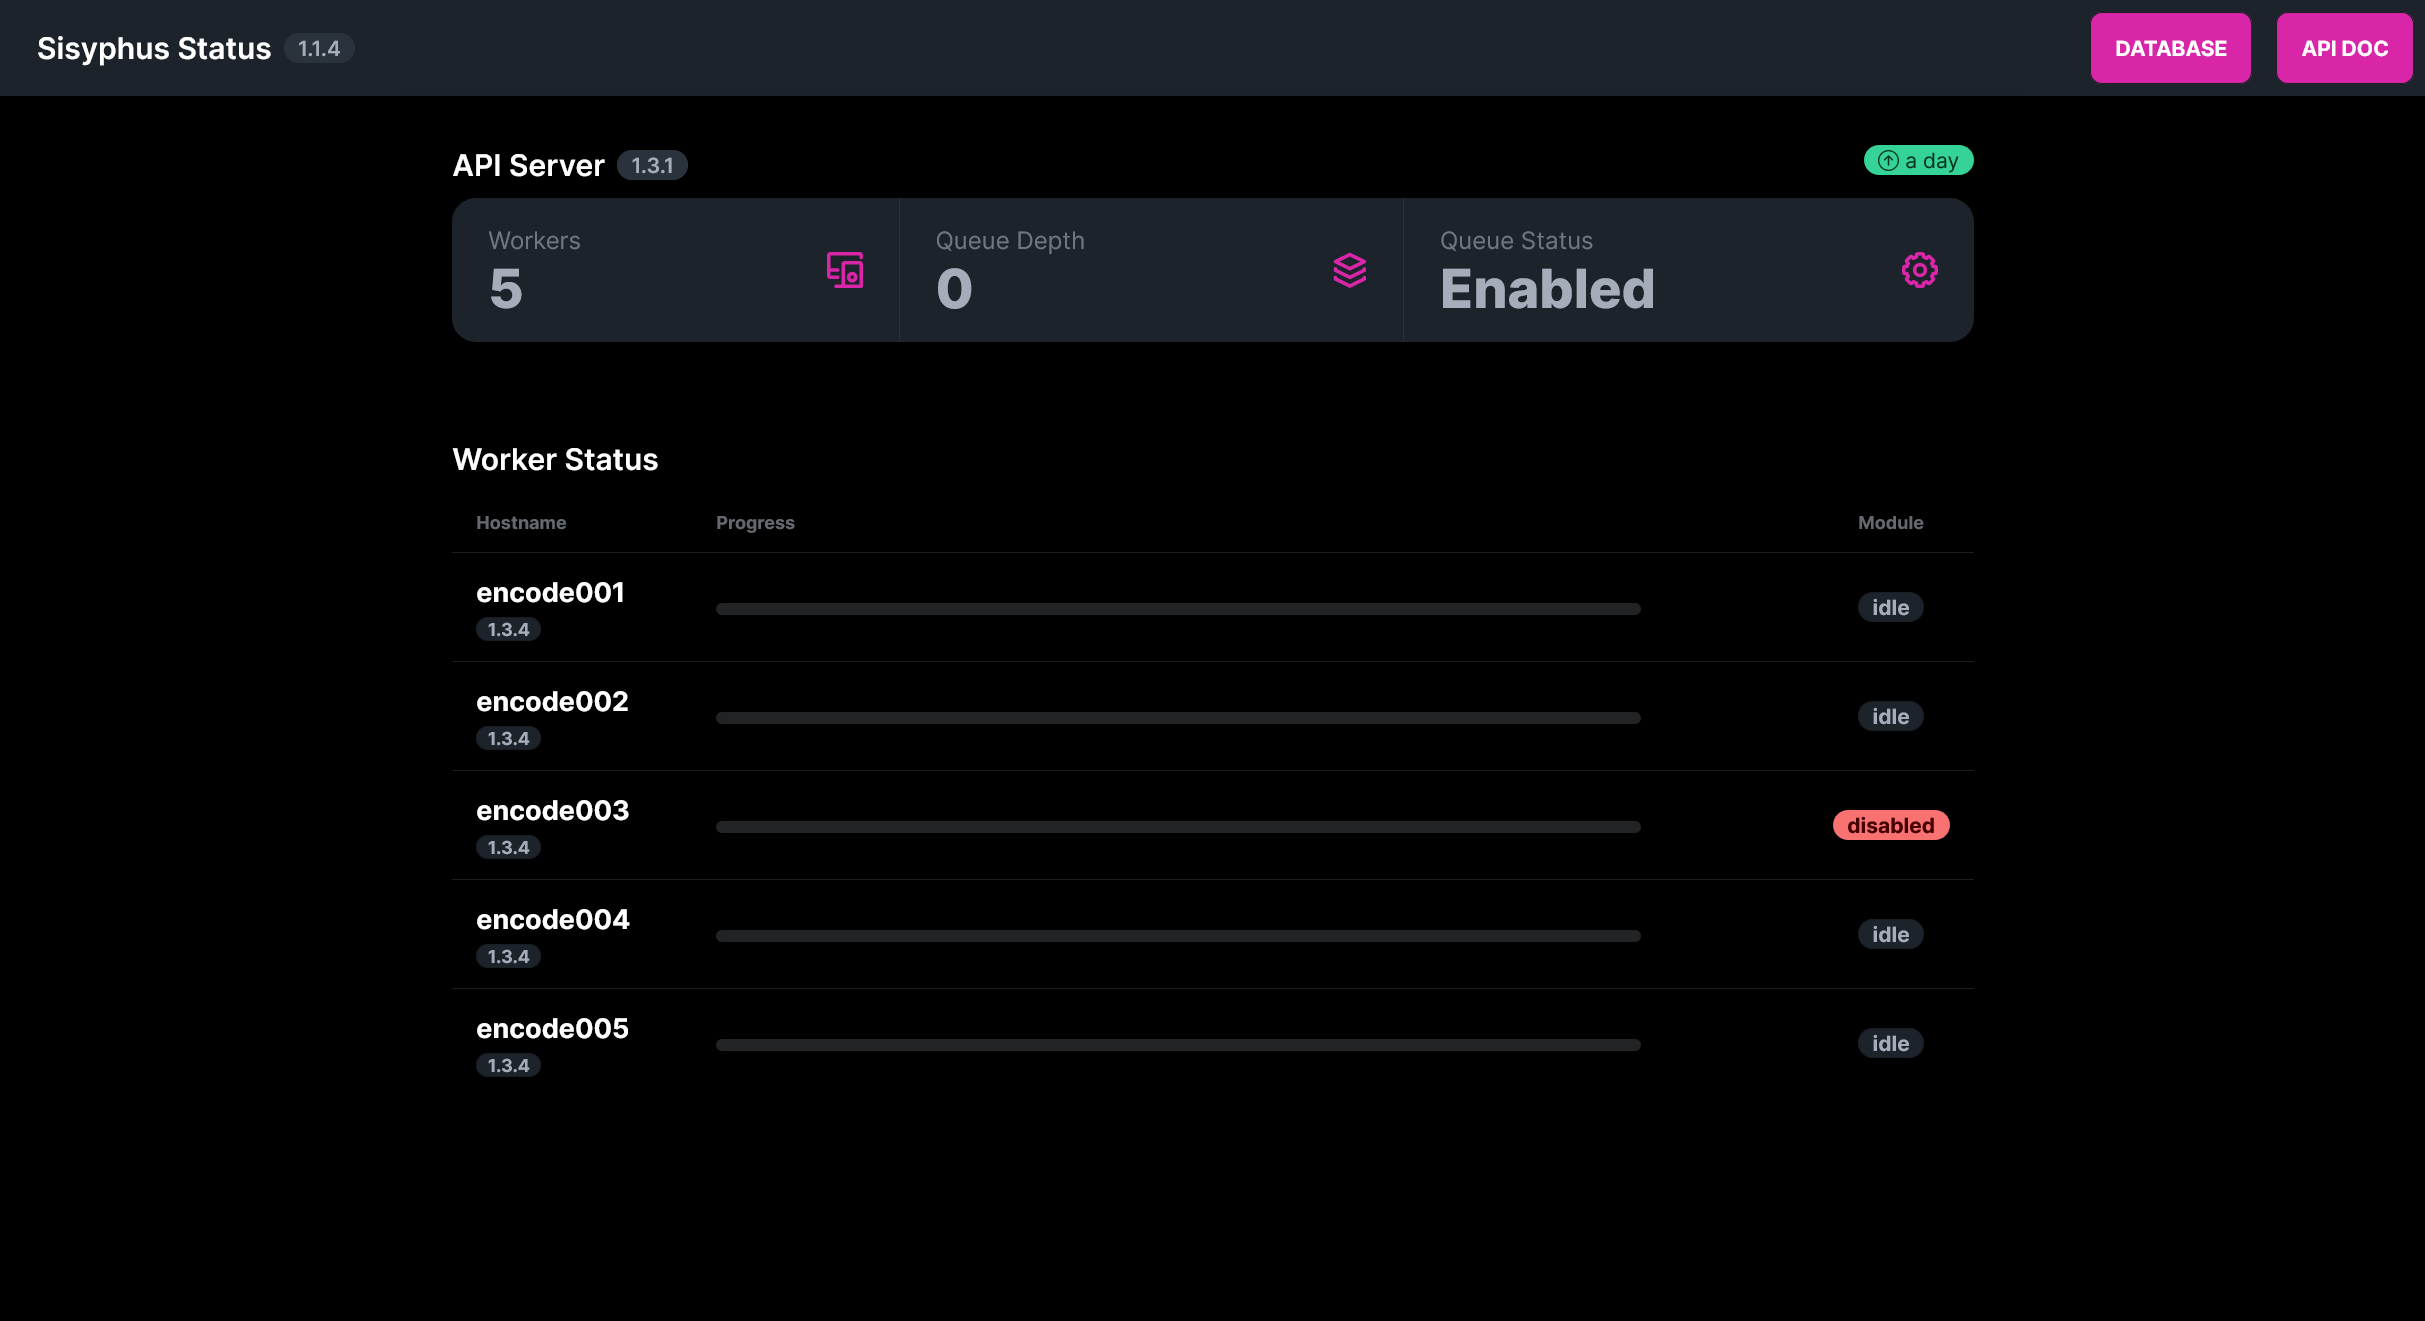
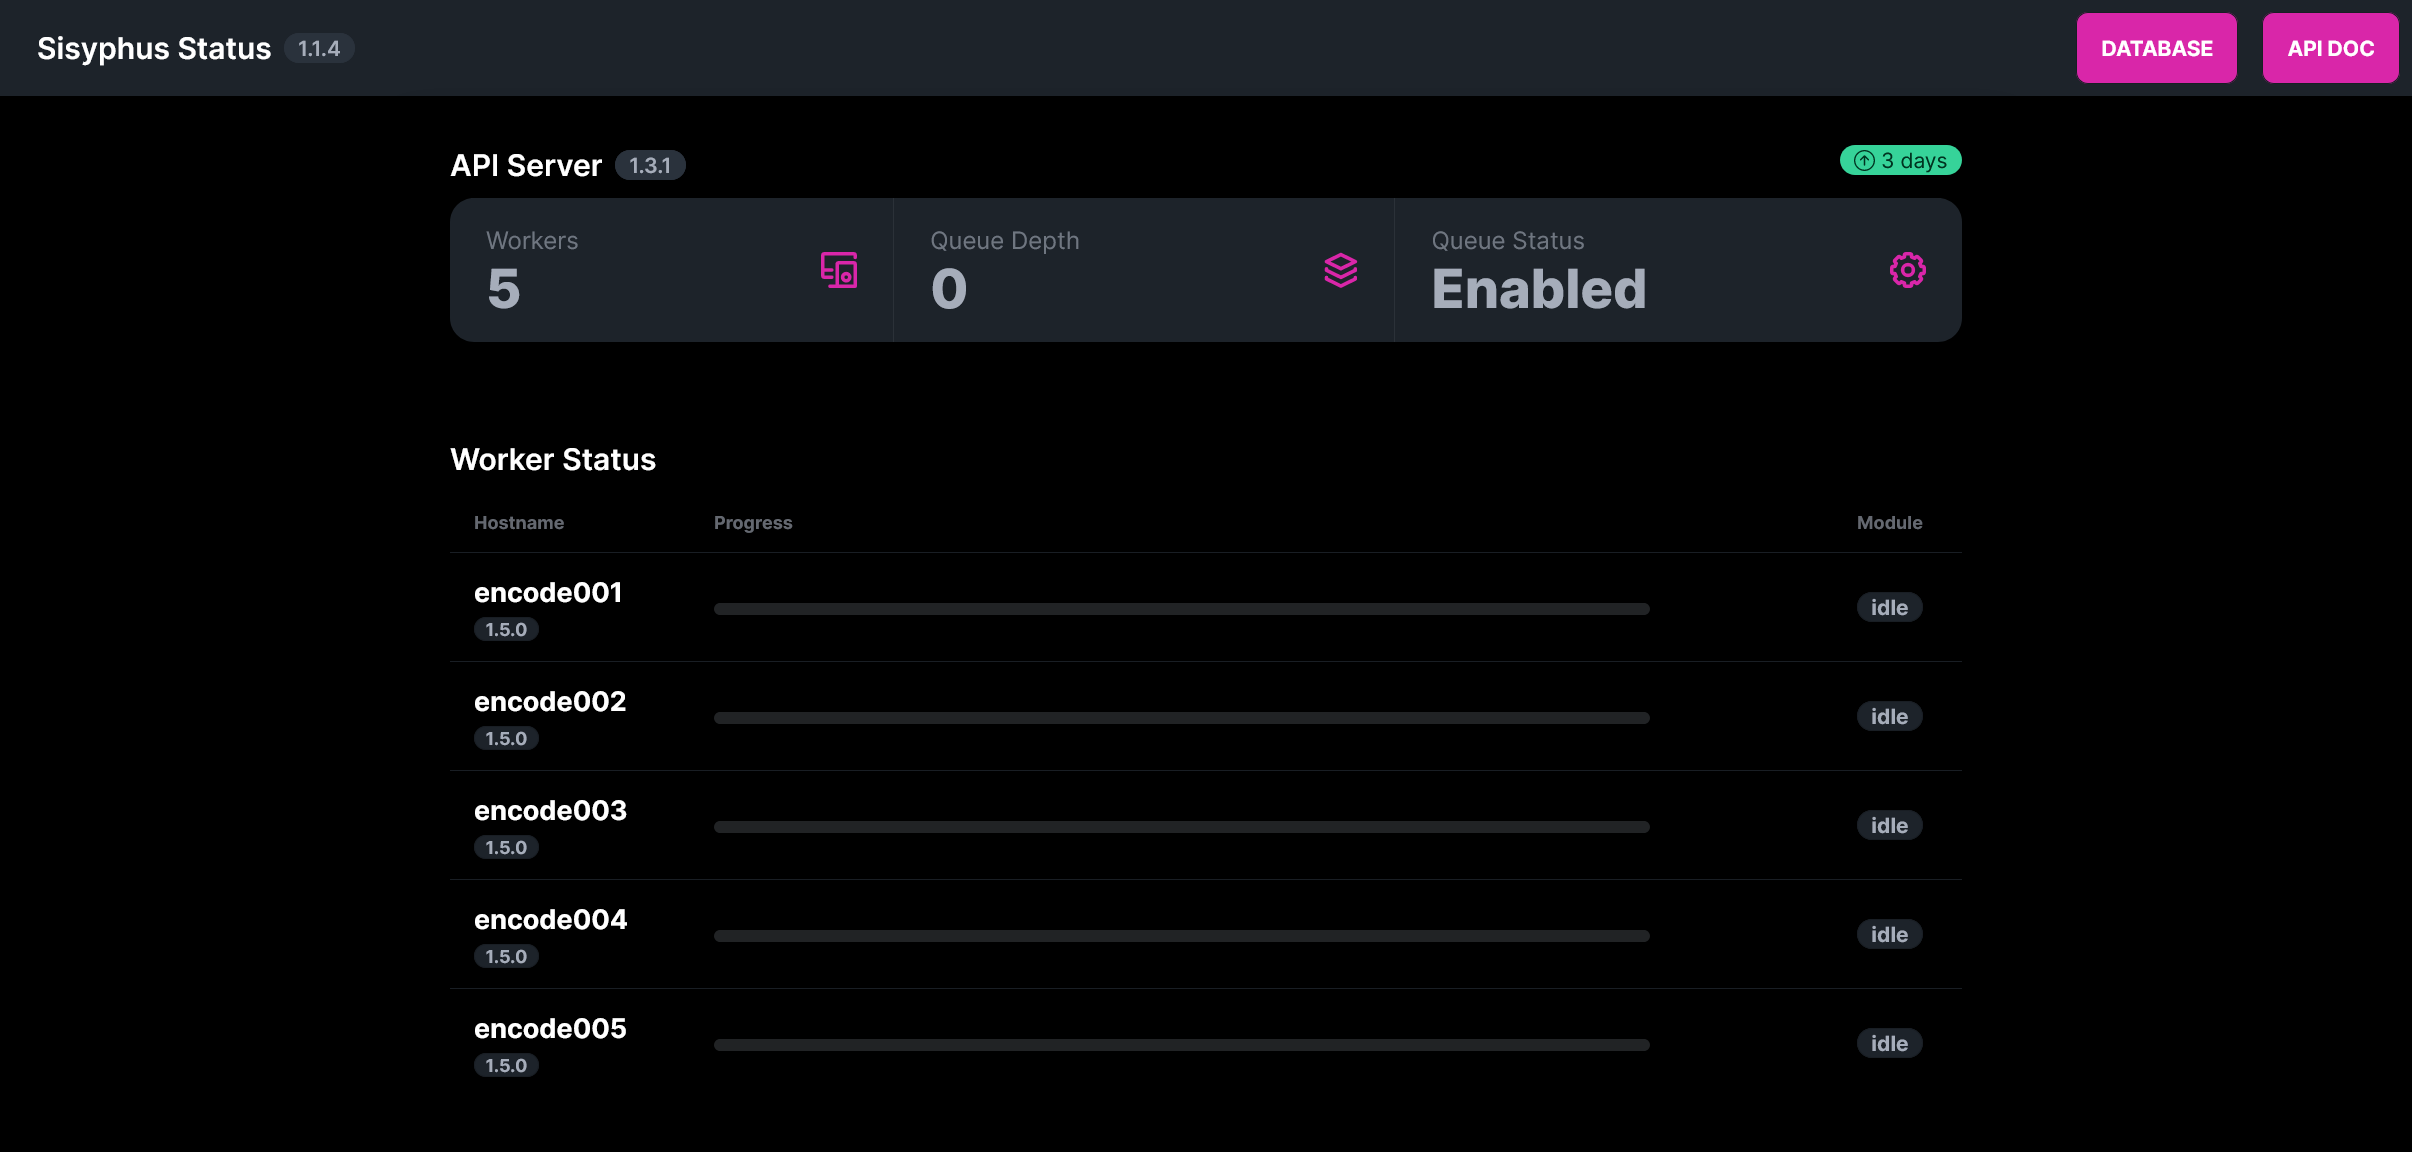
Updated intro screenshot with 1.5.0 clients

diff --git a/docs/intro.md b/docs/intro.md
@@ -7,7 +7,7 @@ sidebar_position: 1
 
 The Sisyphus encoding system is a distributed encoding solution written in Python that uses a central server to queue up encoding jobs that are then distributed to one or more encoding workers/clients.
 
-![Screenshot of the Sisyphus Frontend status page](installation/img/sisyphus_frontend_image.png)
+![Sisyphus Frontend screenshot](installation/img/sisyphus_frontend_image.png)
 
 ## Components
 
